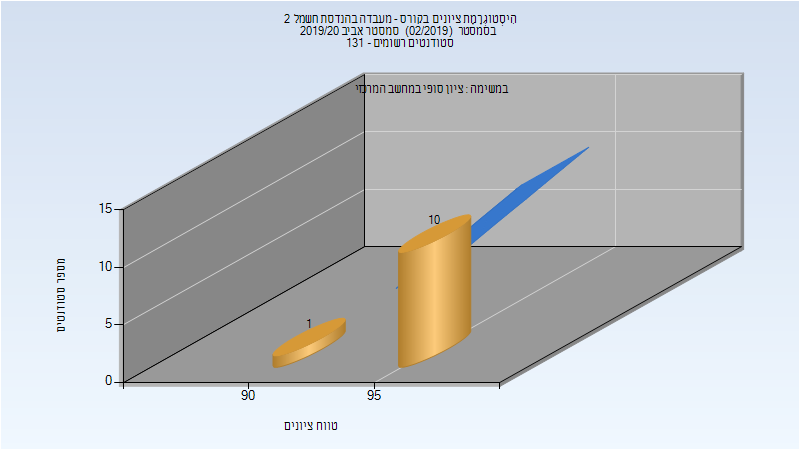
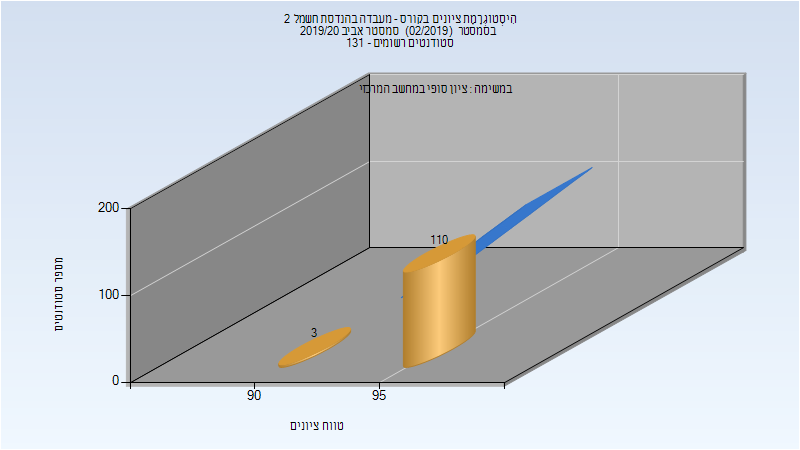
Deploy michael-maltsev/technion-histograms to github.com/michael-maltsev/technion-histograms.git:gh-pages

diff --git a/044159/index.html b/044159/index.html
@@ -82,12 +82,12 @@
 </thead>
 <tbody>
 <tr>
-<td>11</td>
-<td>11/0</td>
+<td>113</td>
+<td>113/0</td>
 <td>100</td>
 <td>94</td>
-<td>98</td>
-<td>97</td>
+<td>99</td>
+<td>96.903</td>
 <td>97</td>
 </tr>
 </tbody>

diff --git a/044159/README.md b/044159/README.md
@@ -21,5 +21,5 @@
 
 | סטודנטים | עברו/נכשלו | אחוז עוברים | ציון מינימלי | ציון מקסימלי | ממוצע | חציון |
 | ---- | ---- | ---- | ---- | ---- | ---- | ---- |
-| 11 | 11/0 | 100 | 94 | 98 | 97 | 97 |
+| 113 | 113/0 | 100 | 94 | 99 | 96.903 | 97 |
 
